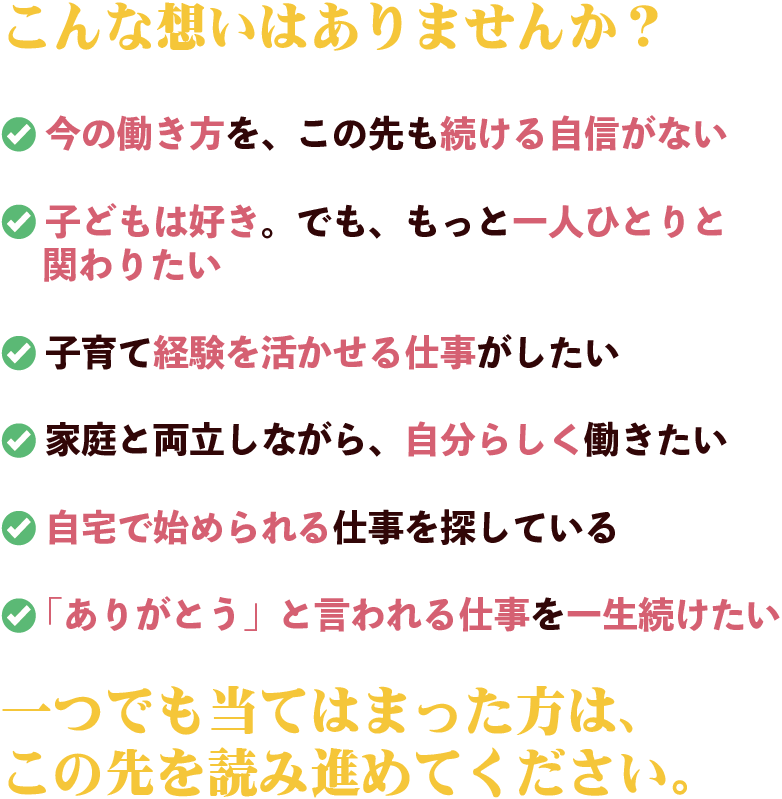
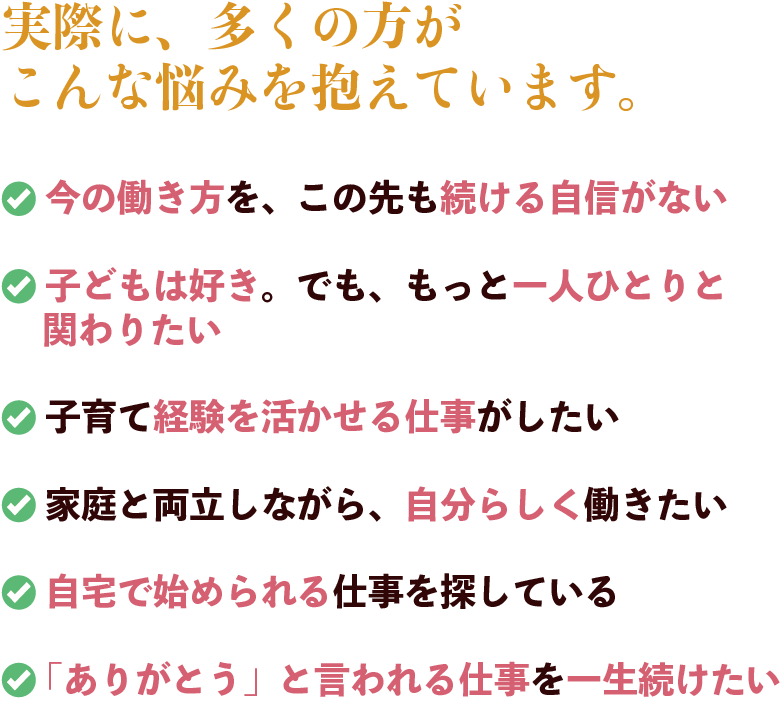
LP

Changed region(s): [[0.0, 0.5312, 1.0, 1.0], [0.0, 0.25, 0.9207, 0.5], [0.0, 0.0, 0.9207, 0.1875]]

diff --git a/product/案件/育脳子育てカウンセラー/lp/lp02/index.html b/product/案件/育脳子育てカウンセラー/lp/lp02/index.html
@@ -5,7 +5,7 @@
     <meta http-equiv="Content-Type" content="text/html; charset=UTF-8">
     <meta name="viewport" content="width=device-width, initial-scale=1.0">
 
-    <!-- LP_ASSET_VERSION: 20260718j -->
+    <!-- LP_ASSET_VERSION: 20260718ad -->
     <meta http-equiv="Cache-Control" content="no-cache, no-store, must-revalidate">
     <meta http-equiv="Pragma" content="no-cache">
     <meta http-equiv="Expires" content="0">
@@ -485,6 +485,25 @@ button[type=submit] img:hover,
 .img_who_feelings {
 	display: block;
 	margin: 0 auto;
+	width: auto;
+	max-width: min(782px, 96vw);
+	height: auto;
+}
+
+.insight-lead {
+	padding: 2.2em 0;
+	width: 100%;
+	background: var(--brand-pink);
+}
+.wrap_insight_lead {
+	margin: 0 auto;
+	max-width: 1000px;
+	padding: 0 16px;
+	box-sizing: border-box;
+}
+.img_insight_lead {
+	display: block;
+	margin: 0 auto;
 	width: 900px;
 	max-width: 96vw;
 	height: auto;
@@ -741,6 +760,26 @@ button[type=submit] img:hover,
 	}
 }
 
+
+.mama-support-lead {
+	padding: 2.5em 0;
+	width: 100%;
+	background: url(assets/utagesystem.s3.ap-northeast-1.amazonaws.com/g5kxXfM1ukUE/be7m4GokMgTWV5MsmYbGK2UuWnYqFzDKJrP1a4ys.jpg?v=20260714) center center / cover fixed;
+}
+.wrap_mama_support_lead {
+	margin: 0 auto;
+	max-width: 1000px;
+	padding: 0 16px;
+	box-sizing: border-box;
+}
+.img_mama_support_lead {
+	display: block;
+	margin: 0 auto;
+	width: 900px;
+	max-width: 96vw;
+	height: auto;
+}
+
 .img_irritation_cycle {
 	margin-top: 0.4em;
 }
@@ -755,8 +794,8 @@ button[type=submit] img:hover,
 	padding: 3em 0;
 	width: 100%;
 	background-color: #ffffff;
-	background-image: url(assets/conclusion-story-bg.jpg?v=20260714b);
-	background-position: center right;
+	background-image: url(assets/conclusion-story-bg.jpg?v=20260714d);
+	background-position: right 25%;
 	background-size: cover;
 	background-repeat: no-repeat;
 }
@@ -1882,7 +1921,7 @@ h3 {margin-bottom: 0;}
 
 <div id="body">
     <div id="main" v-bind:class="[pagePcWidth, borderType, pageBackgroundImageClasses]" v-bind:style="pageBackgroundStyles">
-        <elements-component v-bind:data='{"page":{"background_color":null,"background_image_src":null,"background_image_style":null},"elements":[{"id":754635255,"is_popup":0,"type":"section","padding_bottom_sp":0,"padding_side_sp":0,"device":"only-sp","sid":"","children":[{"id":754635256,"is_popup":0,"type":"row","padding_bottom_sp":0,"sid":"","children":[{"id":754635257,"is_popup":0,"type":"col","sid":"","children":[{"id":754635258,"is_popup":0,"type":"image","img_src":"assets/header-mobile-replacement.png?v=20260718b","align":"center","target":"same","sid":"","children":[]}]}]}]},{"id":754635259,"is_popup":0,"type":"section","device":"only-pc","class":"firstview","sid":"","children":[{"id":754635260,"is_popup":0,"type":"row","sid":"","children":[{"id":754635261,"is_popup":0,"type":"col","sid":"","children":[]}]}]},{"id":754635267,"is_popup":0,"type":"section","class":"form","sid":"","children":[{"id":754635268,"is_popup":0,"type":"row","class":"submit","sid":"","children":[{"id":754635269,"is_popup":0,"type":"col","sid":"","children":[{"id":754635270,"is_popup":0,"type":"html","text":"<p class=\"form-nudge\"><span>子育て経験を収入に変える秘密</span></p><p class=\"form-nudge-date\">↓7月27日(月)21:30スタート↓</p><div id=\"form\" class=\"myasp-form-wrap\"><div class=\"content_form\"><form action=\"https://my183p.com/p/r/iak8HPwC\" enctype=\"multipart/form-data\" id=\"UserItemForm\" class=\"myForm\" method=\"post\" accept-charset=\"utf-8\" data-myasp-item-id=\"iak8HPwC\" data-myasp-form-id=\"iak8HPwC\" data-myasp-page-key=\"form_page_html\" data-myasp-form-asset-version=\"7376e12c588b\"><input type=\"hidden\" name=\"_method\" value=\"POST\"><div class=\"input text input_unit required myasp-mail-row\" data-form-key=\"Usermail\"><input name=\"data[User][mail]\" id=\"Usermail\" value=\"\" class=\"form_input_input deco\" type=\"text\" placeholder=\"メールアドレスを入力してください\"></div><div class=\"submit form_input_submit\"><span class=\"btn_utg myasp-btn-shell\"><input type=\"image\" src=\"assets/button-replacement.png?v=20260607\" alt=\"無料で今すぐ5日間チャレンジプログラムに参加する\" class=\"myasp-btn-image\"></span></div><input type=\"hidden\" id=\"server_url_UserItemForm\" value=\"https://my183p.com/\"><!-- ▼リファラ --><input type=\"hidden\" name=\"data[User][referer_form_url]\" value=\"\" class=\"UserRefererFormUrl\"/><input type=\"hidden\" name=\"data[User][referer_url]\" value=\"\" class=\"UserRefererUrl\"/><script type=\"text/javascript\">//<!--\n    if (document.referrer.length !=0 ){\n        if (document.getElementsByClassName(\"UserRefererUrl\"))\n        {\n        var user_referer_url = document.getElementsByClassName(\"UserRefererUrl\");\n        for (var i = 0; i < user_referer_url.length; i++)\n        {\n            user_referer_url[i].value = document.referrer;\n        }\n        }\n        else if (document.getElementById(\"UserRefererUrl\"))\n        {\n            document.getElementById(\"UserRefererUrl\").value = document.referrer;\n        }\n    }\n\n\n    if (document.getElementsByClassName(\"UserRefererFormUrl\"))\n    {\n        var user_referer_form_url = document.getElementsByClassName(\"UserRefererFormUrl\");\n        for (var i = 0; i < user_referer_form_url.length; i++)\n        {\n            user_referer_form_url[i].value = location.href;\n        }\n    }\n    else if (document.getElementById(\"UserRefererFormUrl\"))\n    {\n        document.getElementById(\"UserRefererFormUrl\").value = location.href;\n    }\n//-->\n    </script><!-- ▲リファラ --></form></div></div>","sid":"","children":[]},{"id":754635272,"is_popup":0,"type":"text","text":"<p>Gmailなどのフリーメールアドレスでのご登録をお願いいたします。メールが確認できない場合は、迷惑フォルダもご確認ください。@icloud.com、outlook.jp、hotmail.com、mac.com、msn.comは届かない場合があります。</p>","class":"optin","sid":"","children":[]}]}]}]},{"id":754635273,"is_popup":0,"type":"section","padding_side_sp":0,"sid":"","children":[{"id":754635274,"is_popup":0,"type":"row","sid":"","children":[{"id":754635275,"is_popup":0,"type":"col","sid":"","children":[{"id":754635276,"is_popup":0,"type":"html","text":"<section class=\"bonus\">\n\n\t\t<h2><img src=\"https://utagesystem.s3.ap-northeast-1.amazonaws.com/g5kxXfM1ukUE/SWfPdfc9Z1zQisx9Q2U8Rd9CfUaVrKC7iygs2E8x.png\" alt=\"プログラム参加特典\"></h2>\n\n\t\t<div class=\"wrap_bonus\">\n\t\t\n\n\t\t\t<div class=\"con_bonus\">\n\n\t\t\t\t<img src=\"https://utagesystem.s3.ap-northeast-1.amazonaws.com/g5kxXfM1ukUE/WdLb0jPpd4E1440Bk1xNBwJ5tEzAdCxXSrGkriQb.png\" alt=\"今すぐ使える ”予想外”で子どものシナプスを刺激する 「1秒育脳ぷち」\">\n\n\t\t\t</div><!--/con_bonus-->\n\n\n\t\t</div><!--/wrap_bonus-->\n\t\t\n\t</section><!--/bonus-->\n\n\n<section class=\"who\">\n\n\t\t<h2><img src=\"https://utagesystem.s3.ap-northeast-1.amazonaws.com/g5kxXfM1ukUE/xs4PxQd9BBP8vclRk234tbWC9zDh6lDK16GwSy47.png\" alt=\"「育脳子育てカウンセラー」はこんな方におすすめです\"></h2>\n\n\t\t<div class=\"wrap_who\">\n\n\t\t\t<div class=\"con_who\">\n\t\t\t\t<img class=\"img_who_checklist\" src=\"assets/who-checklist-replacement.png?v=20260718j\" alt=\"このまま、今の働き方を続けますか？\">\n\t\t\t</div><!--/con_who-->\n\n\t\t</div><!--/wrap_who-->\n\n\t</section><!--/who-->\n\t<section class=\"who-feelings\">\n\t\t<div class=\"wrap_who_feelings\">\n\t\t\t<img class=\"img_who_feelings\" src=\"assets/who-feelings-replacement.png?v=20260718f\" alt=\"こんな想いはありませんか？\">\n\t\t</div>\n\t</section><!--/who-feelings-->\n\t<section class=\"insight-story\">\n\t\t<div class=\"wrap_insight_story\">\n\t\t\t<img class=\"img_insight_story\" src=\"assets/insight-story-replacement.png?v=20260714i\" alt=\"実はわたしは、5000組以上の親子をサポートする中である共通点に気づきました。\">\n\t\t</div>\n\t</section><!--/insight-story-->\n\t\n\t<section class=\"contrast-question\">\n\t\t<div class=\"wrap_contrast_question\">\n\t\t\t<img class=\"img_contrast_question\" src=\"assets/contrast-question-replacement.png?v=20260714j\" alt=\"うまくいく家庭にあって、うまくいってない家庭にないもの\">\n\t\t\t<p class=\"cycle-title cycle-title-happy\">うまくいく家庭の<br class=\"sponly\">「ハッピーサイクル」</p>\n\t\t\t<img class=\"img_irritation_cycle\" src=\"assets/happy-cycle-replacement.png?v=20260714\" alt=\"ハッピーサイクル\">\n\t\t\t<p class=\"cycle-title cycle-title-irritation\">うまくいかない家庭の<br class=\"sponly\">「イライラサイクル」</p>\n\t\t\t<img class=\"img_irritation_cycle\" src=\"assets/irritation-cycle-02.png?v=20260714\" alt=\"イライラサイクル\">\n\t\t\t<p class=\"cycle-bridge\">このように、ママが不安や焦りを抱えていると、<br>負のループに入りやすくなります。<br>親子の関係がすれ違ったり、<br>子どもが挑戦しにくくなったりしてしまいます。</p>\n\n\t\t</div>\n\t</section><!--/contrast-question-->\n<section class=\"conclusion-story\">\n\t\t<div class=\"wrap_conclusion_story\">\n\t\t\t<img class=\"img_conclusion_story\" src=\"assets/conclusion-text-replacement.png?v=20260714k\" alt=\"そこで私たちは、ある結論にたどり着きます。子どもを支える前に、ママを支える人が必要だ。\">\n\t\t</div>\n\t</section><!--/conclusion-story-->\n\n\n\n\n\n\t\t\n\t<section class=\"tokucho\">\n\n\t\t<div class=\"wrap_tokucho\">\n\t\t\n\t\t\t<picture>\n\t\t\t\t<source srcset=\"assets/tokucho-workstyle-replacement.png?v=20260714\" media=\"(max-width: 599px)\">\n\t\t\t\t<img class=\"img_tokucho\" src=\"assets/tokucho-workstyle-replacement.png?v=20260714\">\n\t\t\t</picture>\n\n\t\t</div><!--/wrap_tokucho-->\n\t\t\n\t</section><!--/tokucho-->\n\n\n\t\n\n\t<section class=\"workstyle-examples\">\n\t\t<div class=\"wrap_workstyle_examples\">\n\t\t\t<img class=\"img_workstyle_examples\" src=\"assets/workstyle-examples-replacement.png?v=20260714\" alt=\"例えばこんな働き方があります\">\n\t\t</div>\n\t</section><!--/workstyle-examples-->\n\n<section class=\"merit\">\n\n\t\t<h2><img src=\"assets/merit-heading-replacement.png?v=20260607\" alt=\"５日間で何が学べるの？ \"></h2>\n\n\t\t<div class=\"wrap_merit\">\n\t\t\n\t\t\t<ul class=\"con_merit\">\n\t\t\t\t<li>子どもが好きという想いを仕事にする考え方</li>\n\t\t\t\t<li>ママを支える育脳メソッドの全体像</li>\n\t\t\t\t<li>育脳子育てカウンセラー®の具体的な活動内容</li>\n\t\t\t\t<li>未経験から始めるためのステップ</li>\n\t\t\t\t<li>あなたに合った働き方の見つけ方</li>\n\t\t\t\t<li>親子の未来を育てながら選ばれる仕事の作り方</li>\n\n\t\t\t</ul><!--/con_merit--></div><!--/wrap_merit-->\n\t\t\n\t</section><!--/merit-->\n","sid":"","children":[]}]}]}]},{"id":900000001,"is_popup":0,"type":"section","class":"tokucho02-below-form","sid":"","children":[{"id":900000002,"is_popup":0,"type":"row","sid":"","children":[{"id":900000003,"is_popup":0,"type":"col","sid":"","children":[{"id":900000004,"is_popup":0,"type":"html","text":"<section id=\"tokucho02\" class=\"tokucho02\">\n\n\t\t<div class=\"wrap_tokucho02\">\n\n\t\t\t<picture>\n\t\t\t\t<source srcset=\"assets/header-mobile-replacement.png?v=20260718b\" media=\"(max-width: 599px)\">\n\t\t\t\t<img class=\"img_tokucho02\" src=\"assets/header-replacement.png?v=20260718a\" alt=\"育脳子育てカウンセラー®の始め方\">\n\t\t\t</picture>\n\n\t\t</div><!--/wrap_tokucho02-->\n\n\t</section><!--/tokucho02-->","sid":"","children":[]}]}]}]},{"id":754635277,"is_popup":0,"type":"section","class":"form","sid":"","children":[{"id":754635278,"is_popup":0,"type":"row","class":"submit","sid":"","children":[{"id":754635279,"is_popup":0,"type":"col","sid":"","children":[{"id":754635280,"is_popup":0,"type":"html","text":"<p class=\"form-nudge\"><span>子育て経験を収入に変える秘密</span></p><p class=\"form-nudge-date\">↓7月27日(月)21:30スタート↓</p><div id=\"form-bottom\" class=\"myasp-form-wrap\"><div class=\"content_form\"><form action=\"https://my183p.com/p/r/iak8HPwC\" enctype=\"multipart/form-data\" id=\"UserItemForm2\" class=\"myForm\" method=\"post\" accept-charset=\"utf-8\" data-myasp-item-id=\"iak8HPwC\" data-myasp-form-id=\"iak8HPwC\" data-myasp-page-key=\"form_page_html\" data-myasp-form-asset-version=\"7376e12c588b\"><input type=\"hidden\" name=\"_method\" value=\"POST\"><div class=\"input text input_unit required myasp-mail-row\" data-form-key=\"Usermail\"><input name=\"data[User][mail]\" id=\"Usermail2\" value=\"\" class=\"form_input_input deco\" type=\"text\" placeholder=\"メールアドレスを入力してください\"></div><div class=\"submit form_input_submit\"><span class=\"btn_utg myasp-btn-shell\"><input type=\"image\" src=\"assets/button-replacement.png?v=20260607\" alt=\"無料で今すぐ5日間チャレンジプログラムに参加する\" class=\"myasp-btn-image\"></span></div><input type=\"hidden\" id=\"server_url_UserItemForm2\" value=\"https://my183p.com/\"><!-- ▼リファラ --><input type=\"hidden\" name=\"data[User][referer_form_url]\" value=\"\" class=\"UserRefererFormUrl\"/><input type=\"hidden\" name=\"data[User][referer_url]\" value=\"\" class=\"UserRefererUrl\"/><script type=\"text/javascript\">//<!--\n    if (document.referrer.length !=0 ){\n        if (document.getElementsByClassName(\"UserRefererUrl\"))\n        {\n        var user_referer_url = document.getElementsByClassName(\"UserRefererUrl\");\n        for (var i = 0; i < user_referer_url.length; i++)\n        {\n            user_referer_url[i].value = document.referrer;\n        }\n        }\n        else if (document.getElementById(\"UserRefererUrl\"))\n        {\n            document.getElementById(\"UserRefererUrl\").value = document.referrer;\n        }\n    }\n\n\n    if (document.getElementsByClassName(\"UserRefererFormUrl\"))\n    {\n        var user_referer_form_url = document.getElementsByClassName(\"UserRefererFormUrl\");\n        for (var i = 0; i < user_referer_form_url.length; i++)\n        {\n            user_referer_form_url[i].value = location.href;\n        }\n    }\n    else if (document.getElementById(\"UserRefererFormUrl\"))\n    {\n        document.getElementById(\"UserRefererFormUrl\").value = location.href;\n    }\n//-->\n    </script><!-- ▲リファラ --></form></div></div>","sid":"","children":[]},{"id":754635281,"is_popup":0,"type":"text","text":"<p>Gmailなどのフリーメールアドレスでのご登録をお願いいたします。メールが確認できない場合は、迷惑フォルダもご確認ください。@icloud.com、outlook.jp、hotmail.com、mac.com、msn.comは届かない場合があります。</p>","class":"optin","sid":"","children":[]}]}]}]},{"id":754635325,"is_popup":0,"type":"section","sid":"","children":[{"id":754635326,"is_popup":0,"type":"row","sid":"","children":[{"id":754635327,"is_popup":0,"type":"col","sid":"","children":[{"id":754635328,"is_popup":0,"type":"html","text":"<div class=\"profile\">\n\t\t\t<h2><img src=\"https://utagesystem.s3.ap-northeast-1.amazonaws.com/g5kxXfM1ukUE/f8qoOenCimcPo5xTOmAGJpNZt6yGKnnaaPh8ux0I.png\" alt=\"講師紹介\"></h2>\n\t\t\t\n\t\t\t<div class=\"con_profile\">\n\t\t\t\t<div class=\"shd_profile\">\n\t\t\t\t\t<picture>\n\t\t\t\t\t\t<source srcset=\"https://utagesystem.s3.ap-northeast-1.amazonaws.com/g5kxXfM1ukUE/IRZdUzYIFDPmhhSWgDZT4NMjxL5KNq7nam1GNsdj.png\" media=\"(max-width: 768px)\">\n\t\t\t\t\t\t<img class=\"tt_shdprofile\" src=\"https://utagesystem.s3.ap-northeast-1.amazonaws.com/g5kxXfM1ukUE/gdZe5hp0Q0dcBDhO5JMk6Y29eAghQGKnOTh5LJz4.png\">\n\t\t\t\t\t</picture>\n\t\t\t\t\t<img class=\"pic_profile\" src=\"assets/profile-photo-replacement.png?v=20260607\">\n\t\t\t\t</div><!-- /shd_profile -->\n\t\t\t\t\n\t\t\t\t<p>私も、2男1女の母です。<br>\n<br>\n幼いころから特別な英才教育をしてきたわけではありません。<br>\nごく普通の家庭で、ただただ愛情をたっぷり注いで子育てをしてきました。<br>\n<br>\nその結果、<br>\n<br>\n医者になった長男<br>\n特待生を経て幼稚園教諭になった長女<br>\n国立大学を卒業し、独立行政法人の団体職員として歩んでいる次男<br>\n<br>\n3人とも、自分のやりたいことを見つけて、<br>\n自分で選んだ道を、しっかりと歩んでいます。<br>\n<br>\nそんな子どもたちの成長を見守りながら、<br>\n私はずっと思っていました。<br>\n<br>\n<strong>「おかえり」と言える毎日を大切にしながら、<br>\n誰かの力になれる仕事がしたい。</strong><br>\n<br>\nその想いから、17年前に起業しました。<br>\n<br>\n子育て中は、本当に毎日があっという間です。<br>\n母として、妻として、家族のために動いているうちに、<br>\n気づけば自分のことはいつも後回し。<br>\n<br>\nでも私は思うのです。<br>\n<br>\n<strong>ママだって、自分のことを考えていい。<br>\nママだって、自分の人生を生きていい。</strong><br>\n<br>\n限られた時間の中でも、<br>\nやりたいことをやっていい。<br>\n楽しんでいい。<br>\n自分の「好き」や「得意」を活かして、<br>\n子育てをしながら働くことだって、できる。<br>\n<br>\nそんな生き方が当たり前になったら、<br>\nきっと今よりもっと、子育てしやすくて、<br>\n助け合いがあって、あたたかい社会になっていく。<br>\n<br>\n<strong>私は、そんな想いで<br>\n育脳子育てカウンセラー®として活動しています。</strong></p>\n\t\t\t</div><!-- /con_profile -->\n\t\t</div><!-- /profile -->","sid":"","children":[]}]}]}]},{"id":754635329,"is_popup":0,"type":"section","class":"footer","sid":"","children":[{"id":754635330,"is_popup":0,"type":"row","sid":"","children":[{"id":754635331,"is_popup":0,"type":"col","sid":"","children":[{"id":754635332,"is_popup":0,"type":"footer","color":"#ffffff","privacy":"https://eqno.mamaaka.com/p/privacy","asct":"https://eqno.mamaaka.com/p/law","copyright":"育脳子育てカウンセラー 運営事務局","background_color":"#ffffff","sid":"","children":[]}]}]}]},{"id":754635333,"is_popup":0,"type":"section","sid":"","children":[{"id":754635334,"is_popup":0,"type":"row","sid":"","children":[{"id":754635335,"is_popup":0,"type":"col","sid":"","children":[{"id":754635336,"is_popup":0,"type":"html","text":"<div class=\"flbtn\"><a href=\"#tokucho02\">無料で今すぐ5日間チャレンジプログラムに参加する</a></div><!--/flbtn-->","sid":"","children":[]}]}]}]}],"popupelements":[],"products":[],"actions":[],"forms":[],"funnel":{"id":125951,"id_str":"tIuqBmSeuvw6","funnel_group_id":0,"memo":null,"share_id":"SIjKFcmlg632","is_test_mode":0,"is_archived":0,"is_deleted":0,"status":"published","share_type":"email","from_funnel_id":null,"period_to":null,"url_closed":null,"webinar_format":"web","webinar_type":"day","webinar_registration_type":"default","webinar_period_minute":null,"webinar_day_after":null,"webinar_days":null,"webinar_count_per_day":null,"webinar_from_hour1":null,"webinar_from_min1":null,"webinar_to_hour1":null,"webinar_to_min1":null,"webinar_from_hour2":null,"webinar_from_min2":null,"webinar_to_hour2":null,"webinar_to_min2":null,"webinar_length_hour":null,"webinar_length_minute":null,"webinar_replay_days":null,"webinar_chat_type":"none","webinar_chat_approval_type":"auto","webinar_default_schedule_type":"none","zoom_webinar_project_id":null,"js_head":null,"js_body_top":null,"js_body":null,"order":0,"user_id_str":"g5kxXfM1ukUE","share_status":null,"today":"2026-06-03T12:09:54.798179Z"},"ispreview":false,"pageid":"dSMe05KIyIEV","pcwidth":100,"bordertype":"shadow","swipetype":"none","userdata":[],"webinarschedules":[],"uselazyload":true}'></elements-component>
+        <elements-component v-bind:data='{"page":{"background_color":null,"background_image_src":null,"background_image_style":null},"elements":[{"id":754635255,"is_popup":0,"type":"section","padding_bottom_sp":0,"padding_side_sp":0,"device":"only-sp","sid":"","children":[{"id":754635256,"is_popup":0,"type":"row","padding_bottom_sp":0,"sid":"","children":[{"id":754635257,"is_popup":0,"type":"col","sid":"","children":[{"id":754635258,"is_popup":0,"type":"image","img_src":"assets/header-mobile-replacement.png?v=20260718b","align":"center","target":"same","sid":"","children":[]}]}]}]},{"id":754635259,"is_popup":0,"type":"section","device":"only-pc","class":"firstview","sid":"","children":[{"id":754635260,"is_popup":0,"type":"row","sid":"","children":[{"id":754635261,"is_popup":0,"type":"col","sid":"","children":[]}]}]},{"id":754635267,"is_popup":0,"type":"section","class":"form","sid":"","children":[{"id":754635268,"is_popup":0,"type":"row","class":"submit","sid":"","children":[{"id":754635269,"is_popup":0,"type":"col","sid":"","children":[{"id":754635270,"is_popup":0,"type":"html","text":"<p class=\"form-nudge\"><span>子育て経験を収入に変える秘密</span></p><p class=\"form-nudge-date\">↓7月27日(月)21:30スタート↓</p><div id=\"form\" class=\"myasp-form-wrap\"><div class=\"content_form\"><form action=\"https://my183p.com/p/r/iak8HPwC\" enctype=\"multipart/form-data\" id=\"UserItemForm\" class=\"myForm\" method=\"post\" accept-charset=\"utf-8\" data-myasp-item-id=\"iak8HPwC\" data-myasp-form-id=\"iak8HPwC\" data-myasp-page-key=\"form_page_html\" data-myasp-form-asset-version=\"7376e12c588b\"><input type=\"hidden\" name=\"_method\" value=\"POST\"><div class=\"input text input_unit required myasp-mail-row\" data-form-key=\"Usermail\"><input name=\"data[User][mail]\" id=\"Usermail\" value=\"\" class=\"form_input_input deco\" type=\"text\" placeholder=\"メールアドレスを入力してください\"></div><div class=\"submit form_input_submit\"><span class=\"btn_utg myasp-btn-shell\"><input type=\"image\" src=\"assets/button-replacement.png?v=20260607\" alt=\"無料で今すぐ5日間チャレンジプログラムに参加する\" class=\"myasp-btn-image\"></span></div><input type=\"hidden\" id=\"server_url_UserItemForm\" value=\"https://my183p.com/\"><!-- ▼リファラ --><input type=\"hidden\" name=\"data[User][referer_form_url]\" value=\"\" class=\"UserRefererFormUrl\"/><input type=\"hidden\" name=\"data[User][referer_url]\" value=\"\" class=\"UserRefererUrl\"/><script type=\"text/javascript\">//<!--\n    if (document.referrer.length !=0 ){\n        if (document.getElementsByClassName(\"UserRefererUrl\"))\n        {\n        var user_referer_url = document.getElementsByClassName(\"UserRefererUrl\");\n        for (var i = 0; i < user_referer_url.length; i++)\n        {\n            user_referer_url[i].value = document.referrer;\n        }\n        }\n        else if (document.getElementById(\"UserRefererUrl\"))\n        {\n            document.getElementById(\"UserRefererUrl\").value = document.referrer;\n        }\n    }\n\n\n    if (document.getElementsByClassName(\"UserRefererFormUrl\"))\n    {\n        var user_referer_form_url = document.getElementsByClassName(\"UserRefererFormUrl\");\n        for (var i = 0; i < user_referer_form_url.length; i++)\n        {\n            user_referer_form_url[i].value = location.href;\n        }\n    }\n    else if (document.getElementById(\"UserRefererFormUrl\"))\n    {\n        document.getElementById(\"UserRefererFormUrl\").value = location.href;\n    }\n//-->\n    </script><!-- ▲リファラ --></form></div></div>","sid":"","children":[]},{"id":754635272,"is_popup":0,"type":"text","text":"<p>Gmailなどのフリーメールアドレスでのご登録をお願いいたします。メールが確認できない場合は、迷惑フォルダもご確認ください。@icloud.com、outlook.jp、hotmail.com、mac.com、msn.comは届かない場合があります。</p>","class":"optin","sid":"","children":[]}]}]}]},{"id":754635273,"is_popup":0,"type":"section","padding_side_sp":0,"sid":"","children":[{"id":754635274,"is_popup":0,"type":"row","sid":"","children":[{"id":754635275,"is_popup":0,"type":"col","sid":"","children":[{"id":754635276,"is_popup":0,"type":"html","text":"<section class=\"bonus\">\n\n\t\t<h2><img src=\"https://utagesystem.s3.ap-northeast-1.amazonaws.com/g5kxXfM1ukUE/SWfPdfc9Z1zQisx9Q2U8Rd9CfUaVrKC7iygs2E8x.png\" alt=\"プログラム参加特典\"></h2>\n\n\t\t<div class=\"wrap_bonus\">\n\t\t\n\n\t\t\t<div class=\"con_bonus\">\n\n\t\t\t\t<img src=\"https://utagesystem.s3.ap-northeast-1.amazonaws.com/g5kxXfM1ukUE/WdLb0jPpd4E1440Bk1xNBwJ5tEzAdCxXSrGkriQb.png\" alt=\"今すぐ使える ”予想外”で子どものシナプスを刺激する 「1秒育脳ぷち」\">\n\n\t\t\t</div><!--/con_bonus-->\n\n\n\t\t</div><!--/wrap_bonus-->\n\t\t\n\t</section><!--/bonus-->\n\n\n<section class=\"who\">\n\n\t\t<h2><img src=\"https://utagesystem.s3.ap-northeast-1.amazonaws.com/g5kxXfM1ukUE/xs4PxQd9BBP8vclRk234tbWC9zDh6lDK16GwSy47.png\" alt=\"「育脳子育てカウンセラー」はこんな方におすすめです\"></h2>\n\n\t\t<div class=\"wrap_who\">\n\n\t\t\t<div class=\"con_who\">\n\t\t\t\t<img class=\"img_who_checklist\" src=\"assets/who-checklist-replacement.png?v=20260718j\" alt=\"このまま、今の働き方を続けますか？\">\n\t\t\t</div><!--/con_who-->\n\n\t\t</div><!--/wrap_who-->\n\n\t</section><!--/who-->\n\t<section class=\"who-feelings\">\n\t\t<div class=\"wrap_who_feelings\">\n\t\t\t<img class=\"img_who_feelings\" src=\"assets/who-feelings-replacement.png?v=20260718k\" alt=\"実際に、多くの方がこんな悩みを抱えています。\">\n\t\t</div>\n\t</section><!--/who-feelings-->\n\t<section class=\"insight-lead\">\n\t\t<div class=\"wrap_insight_lead\">\n\t\t\t<img class=\"img_insight_lead\" src=\"assets/insight-lead-replacement.png?v=20260718l\" alt=\"実は、私たちは5,000組以上の親子をサポートする中で、ある共通点に気づきました。\">\n\t\t</div>\n\t</section><!--/insight-lead-->\n\t<section class=\"insight-story\">\n\t\t<div class=\"wrap_insight_story\">\n\t\t\t<img class=\"img_insight_story\" src=\"assets/insight-story-replacement.png?v=20260718v\" alt=\"子どもが笑顔で育つ家庭には、必ずと言っていいほど笑顔のママがいます。\">\n\t\t</div>\n\t</section><!--/insight-story-->\n\t\n\t<section class=\"contrast-question\">\n\t\t<div class=\"wrap_contrast_question\">\n\t\t\t<img class=\"img_contrast_question\" src=\"assets/contrast-question-replacement.png?v=20260714j\" alt=\"うまくいく家庭にあって、うまくいってない家庭にないもの\">\n\t\t\t<p class=\"cycle-title cycle-title-happy\">うまくいく家庭の<br class=\"sponly\">「ハッピーサイクル」</p>\n\t\t\t<img class=\"img_irritation_cycle\" src=\"assets/happy-cycle-replacement.png?v=20260714\" alt=\"ハッピーサイクル\">\n\t\t\t<p class=\"cycle-title cycle-title-irritation\">うまくいかない家庭の<br class=\"sponly\">「イライラサイクル」</p>\n\t\t\t<img class=\"img_irritation_cycle\" src=\"assets/irritation-cycle-02.png?v=20260714\" alt=\"イライラサイクル\">\n\t\t\t<p class=\"cycle-bridge\">このように、ママが不安や焦りを抱えていると、<br>負のループに入りやすくなります。<br>親子の関係がすれ違ったり、<br>子どもが挑戦しにくくなったりしてしまいます。</p>\n\n\t\t</div>\n\t</section><!--/contrast-question-->\n<section class=\"mama-support-lead\">\n\t\t<div class=\"wrap_mama_support_lead\">\n\t\t\t<img class=\"img_mama_support_lead\" src=\"assets/mama-support-lead-replacement.png?v=20260718aa\" alt=\"本当に必要なのは、子どもだけを支えることではなく、ママを支えること。\">\n\t\t</div>\n\t</section><!--/mama-support-lead-->\n<section class=\"conclusion-story\">\n\t\t<div class=\"wrap_conclusion_story\">\n\t\t\t<img class=\"img_conclusion_story\" src=\"assets/conclusion-text-replacement.png?v=20260718ab\" alt=\"だから今、本当に必要とされているのが、おうち子育てカウンセラーです。\">\n\t\t</div>\n\t</section><!--/conclusion-story-->\n\n\n\n\n\n\t\t\n\t<section class=\"tokucho\">\n\n\t\t<div class=\"wrap_tokucho\">\n\t\t\n\t\t\t<picture>\n\t\t\t\t<source srcset=\"assets/tokucho-workstyle-replacement.png?v=20260714\" media=\"(max-width: 599px)\">\n\t\t\t\t<img class=\"img_tokucho\" src=\"assets/tokucho-workstyle-replacement.png?v=20260714\">\n\t\t\t</picture>\n\n\t\t</div><!--/wrap_tokucho-->\n\t\t\n\t</section><!--/tokucho-->\n\n\n\t\n\n\t<section class=\"workstyle-examples\">\n\t\t<div class=\"wrap_workstyle_examples\">\n\t\t\t<img class=\"img_workstyle_examples\" src=\"assets/workstyle-examples-replacement.png?v=20260714\" alt=\"例えばこんな働き方があります\">\n\t\t</div>\n\t</section><!--/workstyle-examples-->\n\n<section class=\"merit\">\n\n\t\t<h2><img src=\"assets/merit-heading-replacement.png?v=20260607\" alt=\"５日間で何が学べるの？ \"></h2>\n\n\t\t<div class=\"wrap_merit\">\n\t\t\n\t\t\t<ul class=\"con_merit\">\n\t\t\t\t<li>子どもが好きという想いを仕事にする考え方</li>\n\t\t\t\t<li>ママを支える育脳メソッドの全体像</li>\n\t\t\t\t<li>育脳子育てカウンセラー®の具体的な活動内容</li>\n\t\t\t\t<li>未経験から始めるためのステップ</li>\n\t\t\t\t<li>あなたに合った働き方の見つけ方</li>\n\t\t\t\t<li>親子の未来を育てながら選ばれる仕事の作り方</li>\n\n\t\t\t</ul><!--/con_merit--></div><!--/wrap_merit-->\n\t\t\n\t</section><!--/merit-->\n","sid":"","children":[]}]}]}]},{"id":900000001,"is_popup":0,"type":"section","class":"tokucho02-below-form","sid":"","children":[{"id":900000002,"is_popup":0,"type":"row","sid":"","children":[{"id":900000003,"is_popup":0,"type":"col","sid":"","children":[{"id":900000004,"is_popup":0,"type":"html","text":"<section id=\"tokucho02\" class=\"tokucho02\">\n\n\t\t<div class=\"wrap_tokucho02\">\n\n\t\t\t<picture>\n\t\t\t\t<source srcset=\"assets/header-mobile-replacement.png?v=20260718b\" media=\"(max-width: 599px)\">\n\t\t\t\t<img class=\"img_tokucho02\" src=\"assets/header-replacement.png?v=20260718a\" alt=\"育脳子育てカウンセラー®の始め方\">\n\t\t\t</picture>\n\n\t\t</div><!--/wrap_tokucho02-->\n\n\t</section><!--/tokucho02-->","sid":"","children":[]}]}]}]},{"id":754635277,"is_popup":0,"type":"section","class":"form","sid":"","children":[{"id":754635278,"is_popup":0,"type":"row","class":"submit","sid":"","children":[{"id":754635279,"is_popup":0,"type":"col","sid":"","children":[{"id":754635280,"is_popup":0,"type":"html","text":"<p class=\"form-nudge\"><span>子育て経験を収入に変える秘密</span></p><p class=\"form-nudge-date\">↓7月27日(月)21:30スタート↓</p><div id=\"form-bottom\" class=\"myasp-form-wrap\"><div class=\"content_form\"><form action=\"https://my183p.com/p/r/iak8HPwC\" enctype=\"multipart/form-data\" id=\"UserItemForm2\" class=\"myForm\" method=\"post\" accept-charset=\"utf-8\" data-myasp-item-id=\"iak8HPwC\" data-myasp-form-id=\"iak8HPwC\" data-myasp-page-key=\"form_page_html\" data-myasp-form-asset-version=\"7376e12c588b\"><input type=\"hidden\" name=\"_method\" value=\"POST\"><div class=\"input text input_unit required myasp-mail-row\" data-form-key=\"Usermail\"><input name=\"data[User][mail]\" id=\"Usermail2\" value=\"\" class=\"form_input_input deco\" type=\"text\" placeholder=\"メールアドレスを入力してください\"></div><div class=\"submit form_input_submit\"><span class=\"btn_utg myasp-btn-shell\"><input type=\"image\" src=\"assets/button-replacement.png?v=20260607\" alt=\"無料で今すぐ5日間チャレンジプログラムに参加する\" class=\"myasp-btn-image\"></span></div><input type=\"hidden\" id=\"server_url_UserItemForm2\" value=\"https://my183p.com/\"><!-- ▼リファラ --><input type=\"hidden\" name=\"data[User][referer_form_url]\" value=\"\" class=\"UserRefererFormUrl\"/><input type=\"hidden\" name=\"data[User][referer_url]\" value=\"\" class=\"UserRefererUrl\"/><script type=\"text/javascript\">//<!--\n    if (document.referrer.length !=0 ){\n        if (document.getElementsByClassName(\"UserRefererUrl\"))\n        {\n        var user_referer_url = document.getElementsByClassName(\"UserRefererUrl\");\n        for (var i = 0; i < user_referer_url.length; i++)\n        {\n            user_referer_url[i].value = document.referrer;\n        }\n        }\n        else if (document.getElementById(\"UserRefererUrl\"))\n        {\n            document.getElementById(\"UserRefererUrl\").value = document.referrer;\n        }\n    }\n\n\n    if (document.getElementsByClassName(\"UserRefererFormUrl\"))\n    {\n        var user_referer_form_url = document.getElementsByClassName(\"UserRefererFormUrl\");\n        for (var i = 0; i < user_referer_form_url.length; i++)\n        {\n            user_referer_form_url[i].value = location.href;\n        }\n    }\n    else if (document.getElementById(\"UserRefererFormUrl\"))\n    {\n        document.getElementById(\"UserRefererFormUrl\").value = location.href;\n    }\n//-->\n    </script><!-- ▲リファラ --></form></div></div>","sid":"","children":[]},{"id":754635281,"is_popup":0,"type":"text","text":"<p>Gmailなどのフリーメールアドレスでのご登録をお願いいたします。メールが確認できない場合は、迷惑フォルダもご確認ください。@icloud.com、outlook.jp、hotmail.com、mac.com、msn.comは届かない場合があります。</p>","class":"optin","sid":"","children":[]}]}]}]},{"id":754635325,"is_popup":0,"type":"section","sid":"","children":[{"id":754635326,"is_popup":0,"type":"row","sid":"","children":[{"id":754635327,"is_popup":0,"type":"col","sid":"","children":[{"id":754635328,"is_popup":0,"type":"html","text":"<div class=\"profile\">\n\t\t\t<h2><img src=\"https://utagesystem.s3.ap-northeast-1.amazonaws.com/g5kxXfM1ukUE/f8qoOenCimcPo5xTOmAGJpNZt6yGKnnaaPh8ux0I.png\" alt=\"講師紹介\"></h2>\n\t\t\t\n\t\t\t<div class=\"con_profile\">\n\t\t\t\t<div class=\"shd_profile\">\n\t\t\t\t\t<picture>\n\t\t\t\t\t\t<source srcset=\"https://utagesystem.s3.ap-northeast-1.amazonaws.com/g5kxXfM1ukUE/IRZdUzYIFDPmhhSWgDZT4NMjxL5KNq7nam1GNsdj.png\" media=\"(max-width: 768px)\">\n\t\t\t\t\t\t<img class=\"tt_shdprofile\" src=\"https://utagesystem.s3.ap-northeast-1.amazonaws.com/g5kxXfM1ukUE/gdZe5hp0Q0dcBDhO5JMk6Y29eAghQGKnOTh5LJz4.png\">\n\t\t\t\t\t</picture>\n\t\t\t\t\t<img class=\"pic_profile\" src=\"assets/profile-photo-replacement.png?v=20260607\">\n\t\t\t\t</div><!-- /shd_profile -->\n\t\t\t\t\n\t\t\t\t<p>私も、2男1女の母です。<br>\n<br>\n幼いころから特別な英才教育をしてきたわけではありません。<br>\nごく普通の家庭で、ただただ愛情をたっぷり注いで子育てをしてきました。<br>\n<br>\nその結果、<br>\n<br>\n医者になった長男<br>\n特待生を経て幼稚園教諭になった長女<br>\n国立大学を卒業し、独立行政法人の団体職員として歩んでいる次男<br>\n<br>\n3人とも、自分のやりたいことを見つけて、<br>\n自分で選んだ道を、しっかりと歩んでいます。<br>\n<br>\nそんな子どもたちの成長を見守りながら、<br>\n私はずっと思っていました。<br>\n<br>\n<strong>「おかえり」と言える毎日を大切にしながら、<br>\n誰かの力になれる仕事がしたい。</strong><br>\n<br>\nその想いから、17年前に起業しました。<br>\n<br>\n子育て中は、本当に毎日があっという間です。<br>\n母として、妻として、家族のために動いているうちに、<br>\n気づけば自分のことはいつも後回し。<br>\n<br>\nでも私は思うのです。<br>\n<br>\n<strong>ママだって、自分のことを考えていい。<br>\nママだって、自分の人生を生きていい。</strong><br>\n<br>\n限られた時間の中でも、<br>\nやりたいことをやっていい。<br>\n楽しんでいい。<br>\n自分の「好き」や「得意」を活かして、<br>\n子育てをしながら働くことだって、できる。<br>\n<br>\nそんな生き方が当たり前になったら、<br>\nきっと今よりもっと、子育てしやすくて、<br>\n助け合いがあって、あたたかい社会になっていく。<br>\n<br>\n<strong>私は、そんな想いで<br>\n育脳子育てカウンセラー®として活動しています。</strong></p>\n\t\t\t</div><!-- /con_profile -->\n\t\t</div><!-- /profile -->","sid":"","children":[]}]}]}]},{"id":754635329,"is_popup":0,"type":"section","class":"footer","sid":"","children":[{"id":754635330,"is_popup":0,"type":"row","sid":"","children":[{"id":754635331,"is_popup":0,"type":"col","sid":"","children":[{"id":754635332,"is_popup":0,"type":"footer","color":"#ffffff","privacy":"https://eqno.mamaaka.com/p/privacy","asct":"https://eqno.mamaaka.com/p/law","copyright":"育脳子育てカウンセラー 運営事務局","background_color":"#ffffff","sid":"","children":[]}]}]}]},{"id":754635333,"is_popup":0,"type":"section","sid":"","children":[{"id":754635334,"is_popup":0,"type":"row","sid":"","children":[{"id":754635335,"is_popup":0,"type":"col","sid":"","children":[{"id":754635336,"is_popup":0,"type":"html","text":"<div class=\"flbtn\"><a href=\"#tokucho02\">無料で今すぐ5日間チャレンジプログラムに参加する</a></div><!--/flbtn-->","sid":"","children":[]}]}]}]}],"popupelements":[],"products":[],"actions":[],"forms":[],"funnel":{"id":125951,"id_str":"tIuqBmSeuvw6","funnel_group_id":0,"memo":null,"share_id":"SIjKFcmlg632","is_test_mode":0,"is_archived":0,"is_deleted":0,"status":"published","share_type":"email","from_funnel_id":null,"period_to":null,"url_closed":null,"webinar_format":"web","webinar_type":"day","webinar_registration_type":"default","webinar_period_minute":null,"webinar_day_after":null,"webinar_days":null,"webinar_count_per_day":null,"webinar_from_hour1":null,"webinar_from_min1":null,"webinar_to_hour1":null,"webinar_to_min1":null,"webinar_from_hour2":null,"webinar_from_min2":null,"webinar_to_hour2":null,"webinar_to_min2":null,"webinar_length_hour":null,"webinar_length_minute":null,"webinar_replay_days":null,"webinar_chat_type":"none","webinar_chat_approval_type":"auto","webinar_default_schedule_type":"none","zoom_webinar_project_id":null,"js_head":null,"js_body_top":null,"js_body":null,"order":0,"user_id_str":"g5kxXfM1ukUE","share_status":null,"today":"2026-06-03T12:09:54.798179Z"},"ispreview":false,"pageid":"dSMe05KIyIEV","pcwidth":100,"bordertype":"shadow","swipetype":"none","userdata":[],"webinarschedules":[],"uselazyload":true}'></elements-component>
     </div>
     <div>
         <div id="exit-popup-hover" class="fixed-top"
